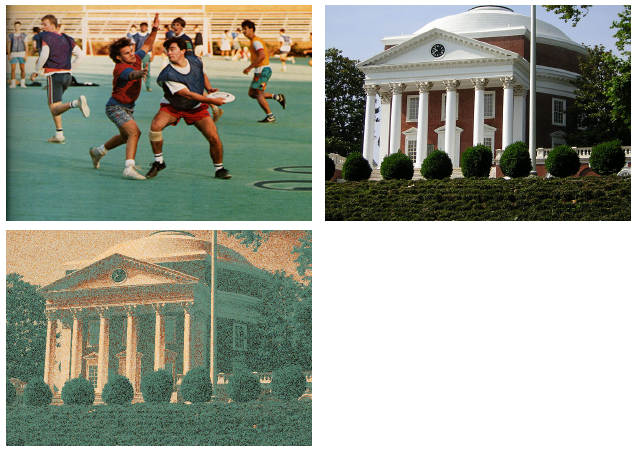
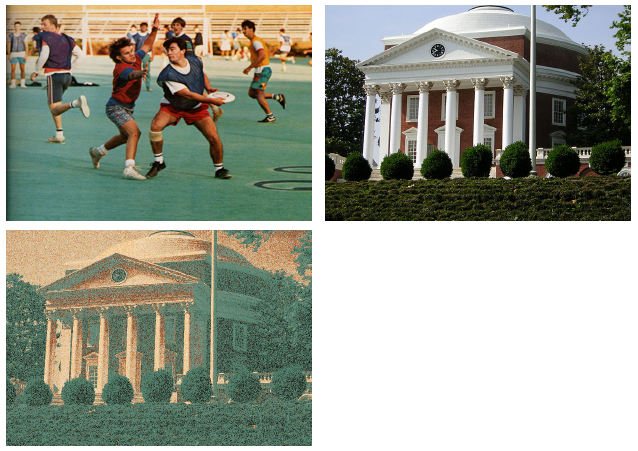
fixed melt step to actually allow 'worse' configurations to take place

Changed region(s): [[0.0, 0.4967, 0.5063, 0.9933]]

diff --git a/simpix_start.cpp b/simpix_start.cpp
@@ -105,6 +105,7 @@ void melt(UInt_t * tgtPix, UInt_t * srcPix, Long_t numPix, double T0, double mel
 
 			if (r<p){
 				oldDist = newDist;
+				continue;
 			}
 			swap(srcPix[randPixel1], srcPix[randPixel2]);
 		}		
@@ -213,7 +214,7 @@ int main(int argc, char **argv){
   tgt->Draw("X");
   c1->cd(3);
   out->Draw("X");
-  c1->Print("pollockToPollock.png");
+  c1->Print("scottToRotunda.png");
   
   // save the new image
   out->WriteImage(fout.Data());
